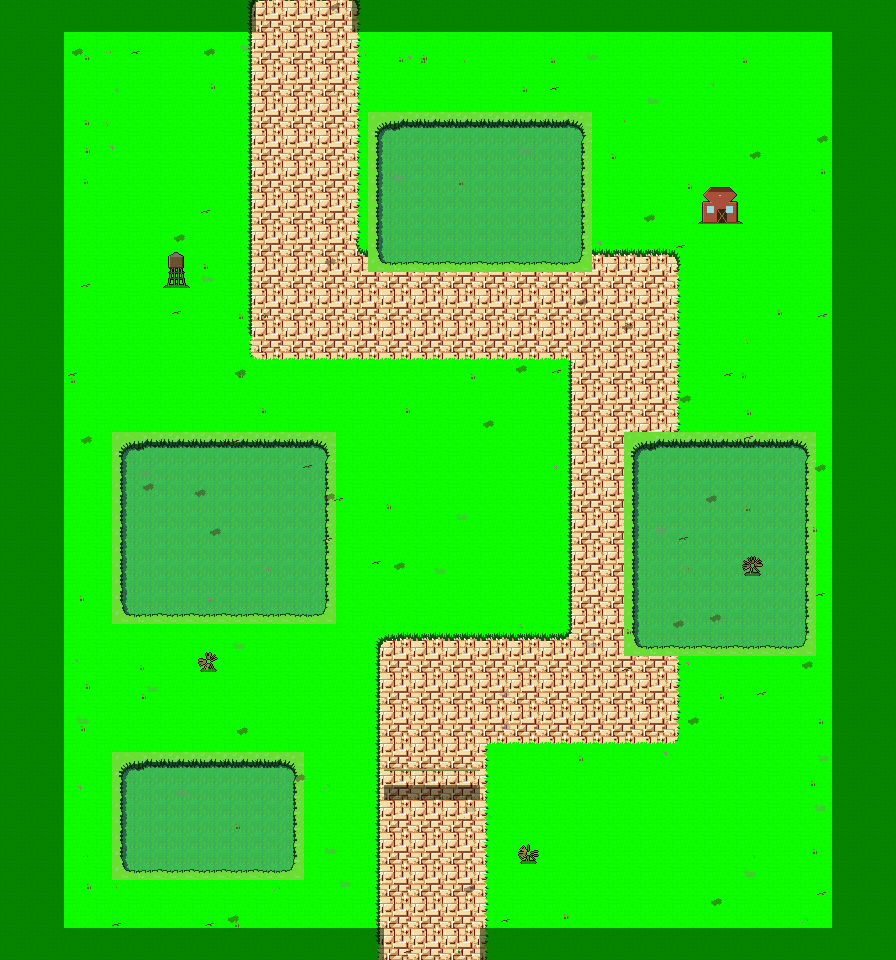
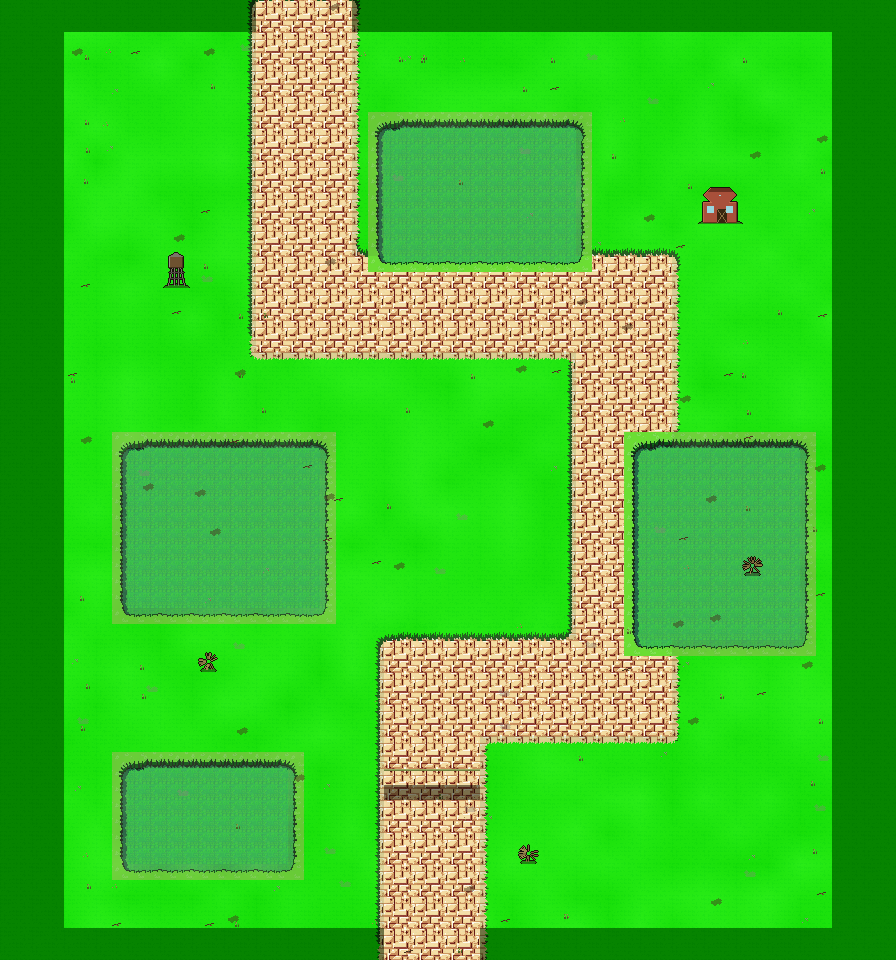
Grass: soften the sharp green into varied, diverse natural tones
Per Mark: the flat green was too sharp/uniform. Added varyGrass() to the shared
wang module — a smooth (bilinearly-sampled) per-cell noise field that mutes each
grass cell toward sage and varies its brightness, so a single repeated tile
reads as soft patchy greens flowing across the field instead of one flat color.
Applied to the Field + Farm Road. Buildings stay the flat grid-method assets.
Typecheck + 141 tests green.

Claude-Session: https://claude.ai/code/session_011145P3mq8AKQQDw7ZjrAxF

diff --git a/tools/wang.ts b/tools/wang.ts
@@ -14,6 +14,7 @@ import { PNG } from 'pngjs';
 import { readFileSync, existsSync } from 'node:fs';
 import { join } from 'node:path';
 import { Sprite } from './spritekit';
+import { Rng } from '../src/core/rng';
 
 const ROOT = new URL('..', import.meta.url).pathname;
 const TILES = join(ROOT, 'assets/tiles-pixellab');
@@ -85,4 +86,44 @@ export function loadBuilding(name: string, targetH: number): Sprite | null {
     if (avgA > 0) { const k = 255 / (avgA * n); s.set(tx, ty, [Math.min(255, Math.round(pr * k)), Math.min(255, Math.round(pg * k)), Math.min(255, Math.round(pb * k)), Math.round(avgA)]); }
   }
   return s;
+}
+
+/**
+ * Soften + diversify flat grass: for each plain grass cell (MAP === 'g'), blend
+ * the pixels toward a muted sage green by a per-cell-varying amount and nudge
+ * the brightness, so a single repeated grass tile reads as natural patchy greens
+ * instead of one sharp uniform color. Cheap post-process over the composed map.
+ */
+export function varyGrass(big: Sprite, map: string[][], T: number, cols: number, rows: number, seed: number): void {
+  const rng = new Rng(seed);
+  const SAGE: [number, number, number] = [104, 138, 78];
+  // a coarse per-cell-corner noise field, bilinearly sampled so the variation
+  // flows as soft gradients across the field instead of hard square patches
+  const NW = cols + 1;
+  const noise = new Float64Array(NW * (rows + 1));
+  for (let i = 0; i < noise.length; i++) noise[i] = rng.next();
+  const sample = (cx: number, cy: number): number => {
+    const x0 = Math.max(0, Math.min(cols, Math.floor(cx))), y0 = Math.max(0, Math.min(rows, Math.floor(cy)));
+    const x1 = Math.min(cols, x0 + 1), y1 = Math.min(rows, y0 + 1);
+    const tx = cx - x0, ty = cy - y0;
+    return noise[y0 * NW + x0]! * (1 - tx) * (1 - ty) + noise[y0 * NW + x1]! * tx * (1 - ty) +
+      noise[y1 * NW + x0]! * (1 - tx) * ty + noise[y1 * NW + x1]! * tx * ty;
+  };
+  for (let r = 0; r < rows; r++)
+    for (let c = 0; c < cols; c++) {
+      if (map[r]?.[c] !== 'g') continue;
+      for (let y = 0; y < T; y++)
+        for (let x = 0; x < T; x++) {
+          const nz = sample(c + x / T, r + y / T); // smooth 0..1
+          const k = 0.93 + nz * 0.14; // brightness 0.93..1.07
+          const mute = 0.12 + nz * 0.16; // blend toward sage 0.12..0.28
+          const p = big.get(c * T + x, r * T + y);
+          big.set(c * T + x, r * T + y, [
+            Math.min(255, Math.round((p[0] * (1 - mute) + SAGE[0] * mute) * k)),
+            Math.min(255, Math.round((p[1] * (1 - mute) + SAGE[1] * mute) * k)),
+            Math.min(255, Math.round((p[2] * (1 - mute) + SAGE[2] * mute) * k)),
+            255,
+          ]);
+        }
+    }
 }

diff --git a/tools/gen-field.ts b/tools/gen-field.ts
@@ -14,6 +14,7 @@ import { Sprite } from './spritekit';
 import { Rng } from '../src/core/rng';
 import { barn, house, watertower, windmill } from './world-builders';
 import { cattleFence, church, coopVault, elevatorHatch, hayBale, hitchingPost, silo, siloCluster, trough } from './assets/kit-field';
+import { varyGrass } from './wang';
 import { scatterClutter } from './scatter';
 
 const T = 32;
@@ -242,6 +243,9 @@ for (let r = 0; r < ROWS; r++)
       big.set(c * T + x, r * T + y, [Math.round(p[0] * 0.62), Math.round(p[1] * 0.62), Math.round(p[2] * 0.62), 255]);
     }
   }
+// soften + diversify the grass: per-cell mute toward sage and vary brightness/hue,
+// so the field reads as natural patchy greens instead of one sharp flat color
+varyGrass(big, MAP, T, COLS, ROWS, 7331);
 
 const extraSolid = new Set<string>();
 for (const o of objs) {

diff --git a/tools/gen-farmroad.ts b/tools/gen-farmroad.ts
@@ -13,7 +13,7 @@ import { Grid } from './gridart';
 import { Sprite } from './spritekit';
 import { Rng } from '../src/core/rng';
 import { barn, watertower } from './world-builders';
-import { loadWang, layWang, loadBuilding } from './wang';
+import { loadWang, layWang, loadBuilding, varyGrass } from './wang';
 import { scatterClutter } from './scatter';
 
 const T = 32;
@@ -135,6 +135,8 @@ for (let r = 0; r < ROWS; r++)
       big.set(c * T + x, r * T + y, [Math.round(p[0] * 0.46), Math.round(p[1] * 0.52), Math.round(p[2] * 0.4), 255]);
     }
   }
+// soften + diversify the grass so it reads as natural patchy greens
+varyGrass(big, MAP, T, COLS, ROWS, 5521);
 
 const extraSolid = new Set<string>();
 for (const o of objs) {
